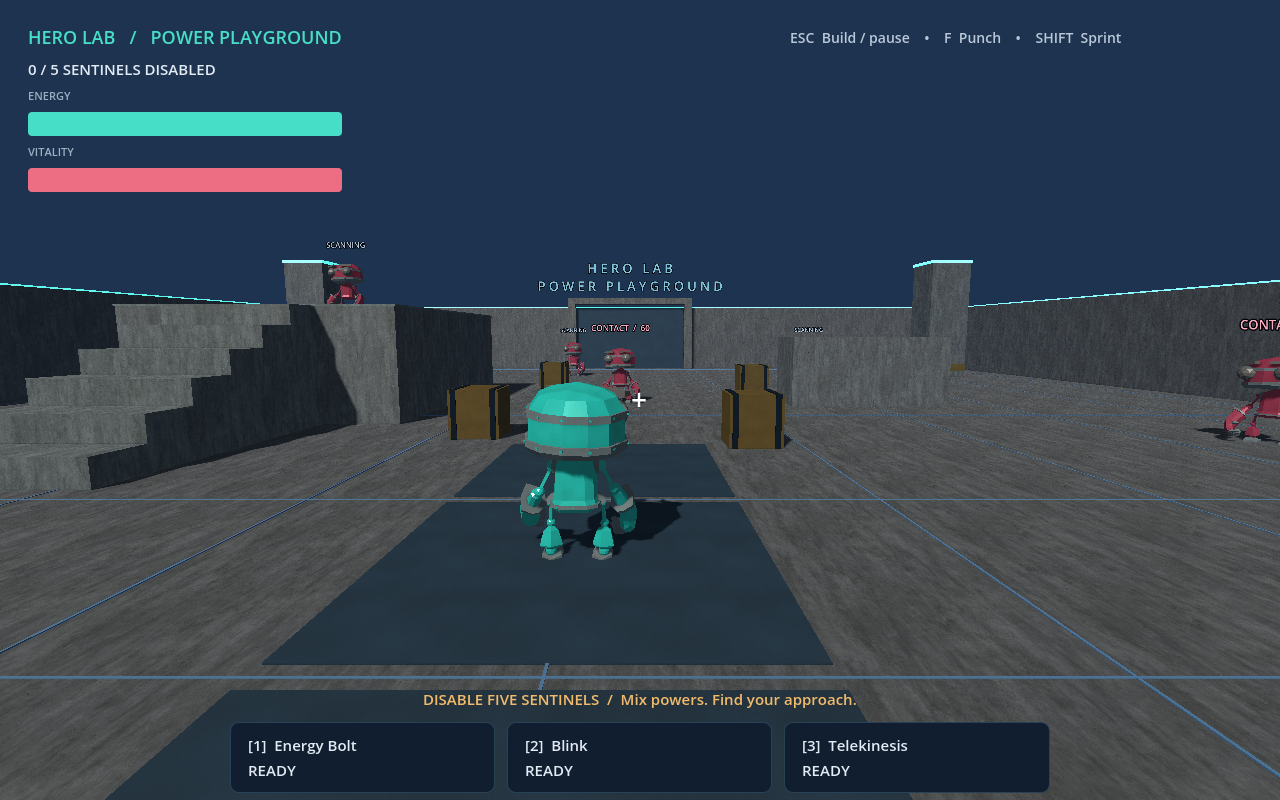
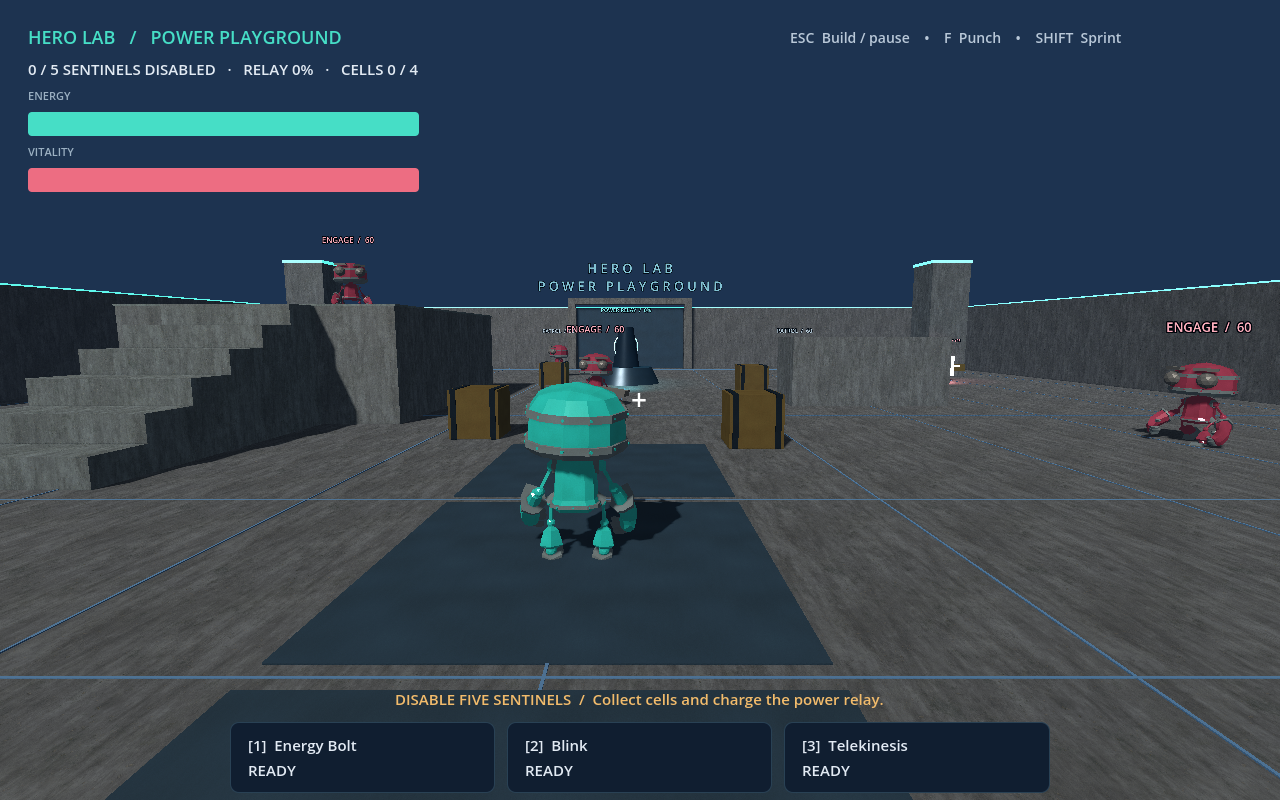
feat: add seeker missile power

diff --git a/README.md b/README.md
@@ -14,18 +14,19 @@ godot --path client
 
 You can also open `client/project.godot` in Godot 4 and press F6 with the hero lab scene open, or F5 to run the project.
 
-The game opens with three empty slots. Choose exactly three of the six powers below; Enter becomes available only when all three slots are filled. Cards and the loadout preview show the assigned keys (1, 2, 3) in selection order. Click a selected card to remove it, then choose a replacement. You can also choose a signature color. Enter the playground to disable five sentinels, collect power cells, and charge the central relay; Esc pauses and reopens your build.
+The game opens with three empty slots. Choose exactly three of the seven powers below; Enter becomes available only when all three slots are filled. Cards and the loadout preview show the assigned keys (1, 2, 3) in selection order. Click a selected card to remove it, then choose a replacement. You can also choose a signature color. Enter the playground to disable five sentinels, collect power cells, and charge the central relay; Esc pauses and reopens your build.
 
 | Power | What it does |
 | --- | --- |
 | Energy Bolt | Cast a traveling orb that damages targets and pushes crates. |
+| Seeker Missiles | Fire a staggered three-missile volley that curves toward exposed sentinels. |
 | Blink | Teleport up to eight metres through clear space. |
 | Telekinesis | Lift a crate, then use the power again to throw it. |
 | Cloak | Conceal yourself for five seconds; attacks reveal you. |
 | Shockwave | Damage exposed enemies within six metres and fling crates outward. Solid cover blocks it. |
 | Energy Shield | Block incoming enemy energy for five seconds while continuing to move and attack. |
 
-All twenty distinct three-power combinations are available. For example, Shield + Shockwave + Blink creates a protected close-range build. Removing Shield or Cloak from the build ends its active effect. Arena reset preserves your selected three powers.
+All thirty-five distinct three-power combinations are available. For example, Shield + Shockwave + Blink creates a protected close-range build, while Seeker Missiles + Cloak + Blink supports hit-and-reposition play. Removing Shield or Cloak from the build ends its active effect. Arena reset preserves your selected three powers.
 
 | Control | Action |
 | --- | --- |
@@ -37,6 +38,8 @@ All twenty distinct three-power combinations are available. For example, Shield 
 | Esc | Open hero creation and pause |
 
 Energy regenerates. Telekinesis grabs amber crates; pressing its key again throws the held crate. Two energy orbs, two melee punches, or one thrown crate disable a sentinel. Cloak lasts five seconds and breaks when attacking. Sentinels patrol while unaware, investigate sounds from powers and thrown crates, alert nearby allies when hit, then pursue and strafe at combat range when they see the hero. A hit causes a visible stagger; a lethal hit leaves a short shutdown pose before the sentinel clears. Their projectiles travel through space and can be dodged; already-fired attacks can still hit a cloaked hero.
+
+Seeker Missiles cost 40 energy and launch three small homing projectiles 130 ms apart. Each tracks its initially acquired, exposed sentinel with a bounded turn rate; cover or a destroyed target breaks its lock, then it continues forward and can be avoided.
 
 Four cells are placed in the arena: jade cells restore 30 energy and coral cells restore 25 vitality. The central Power Relay takes charge from Energy Bolts (25%), Shockwaves (30%), melee strikes (12%), and thrown crates (45%). Bringing it to 100% restores all energy and adds 30 vitality. The HUD and the 3D relay label show objective progress. Reset restores enemies, pickups, relay charge, health, and resources.
 
@@ -60,7 +63,7 @@ godot --path client --script res://tests/capture.gd
 godot --path client --fixed-fps 60 --script res://tests/capture_actions.gd
 ```
 
-The automated suite checks loadouts, energy and cooldowns, cloak behavior, traveling projectile damage, physical thrown-crate impact, Blink collision and ground travel, reset, defeat, movement and animation selection, jumping, melee timing, pause including in-flight attacks, reactive sentinel behavior, shot telegraphing, pickups, and relay charging/rewards. The dedicated power suite also checks all twenty builds, empty/incomplete selection rejection, Shockwave range and cover, Shield expiry and damage blocking, and cleanup when changing powers. The capture command opens a temporary rendered window, saves images to `docs/qa/`, and exits.
+The automated suite checks loadouts, energy and cooldowns, cloak behavior, traveling projectile damage, physical thrown-crate impact, Blink collision and ground travel, reset, defeat, movement and animation selection, jumping, melee timing, pause including in-flight attacks, reactive sentinel behavior, shot telegraphing, pickups, and relay charging/rewards. The dedicated power suite also checks all thirty-five builds, empty/incomplete selection rejection, Seeker Missile acquisition and homing impact, Shockwave range and cover, Shield expiry and damage blocking, and cleanup when changing powers. The capture command opens a temporary rendered window, saves images to `docs/qa/`, and exits.
 
 Read [the concept and prototype scope](docs/CONCEPT.md) for the proposed direction, milestones, and research references. Decisions in that document are proposals unless explicitly marked as confirmed.
 

diff --git a/docs/CONCEPT.md b/docs/CONCEPT.md
@@ -8,9 +8,9 @@ The owner subsequently selected **creating a hero and combining powers** as the 
 
 ## Implemented starting point
 
-The `client/` Godot project now contains an early Hero Lab prototype: signature color selection, three freely selected power slots from four abilities, third-person movement, a small arena, physics crates, and five stationary sentinels. It includes resource limits, cloak detection changes, obstacle-aware Blink, damage, defeat, reset, and a pause/build menu. See the README for controls and limitations.
+The `client/` Godot project now contains an early Hero Lab prototype: signature color selection, three freely selected power slots from seven abilities, third-person movement, a small arena, physics crates, reactive sentinels, pickups, and a relay objective. It includes resource limits, cloak detection changes, obstacle-aware Blink, damage, defeat, reset, and a pause/build menu. See the README for controls and limitations.
 
-Prototype 03 adds Shockwave and Energy Shield. The opening screen starts with three empty slots and requires the player to choose exactly three of six freely combinable powers before entering.
+Prototype 04 adds Seeker Missiles. The opening screen starts with three empty slots and requires the player to choose exactly three of seven freely combinable powers before entering.
 
 The mission and expansion sections below remain future proposals. Prototype 02 replaces the capsule with a rigged Quaternius robot, adds imported movement and punch clips, physical energy projectiles, melee combat, ambientCG PBR surfaces, and layered 3D effects. The arena still has a target-disabling objective rather than core retrieval and extraction.
 
@@ -40,6 +40,7 @@ Equip three abilities freely from a small pool; presets are convenient starting 
 | Telekinesis | Grab and throw designated physics props | Move cover, distract guards, and attack |
 | Energy bolt | Aimed projectile with visible impact | Direct ranged combat |
 | Cloak | Temporary concealment that breaks on attack | Bypass patrols and reposition |
+| Seeker Missiles | Staggered three-projectile homing volley | Pursue exposed targets from a safe angle |
 
 Each power needs readable targeting, a clear limit, and immediate feedback. Test combinations such as blinking onto a roof and throwing a crate into the courtyard. Keep the initial appearance editor to a few color choices; detailed body and clothing customization follows the gameplay prototype.
 

diff --git a/docs/WORK_LOG.md b/docs/WORK_LOG.md
@@ -74,3 +74,10 @@
 - Limited the encounter to three concurrent hostile projectiles and sampled sentinel line-of-sight at 120 ms intervals, preserving reactive behavior while avoiding repeated physics queries each frame.
 - Added a brief cast flash to Energy Bolt, slowed the shared punch clip, and gave sentinel fire a 220 ms animation wind-up. The visual action now precedes the damaging projectile instead of occurring simultaneously.
 - Verification: clean Godot editor import; **70 integration checks and 43 dedicated power/selection checks passed** headlessly. Fixed-FPS Metal captures were regenerated and the Energy Bolt and melee frames were visually reviewed.
+
+## 2026-09-13 11:00 CDT — Seeker Missiles
+
+- Added Seeker Missiles as the seventh selectable power. It spends 40 energy to launch three lightweight gold missiles in a staggered volley toward visible sentinels.
+- Each missile uses bounded steering, verifies line of sight every 120 ms, and drops to a harmless ballistic path if cover appears or its acquired target is removed. The implementation reuses the bounded projectile/effect system from the performance pass.
+- Updated the build UI, catalog, concept, README, automated combination coverage, and rendered capture plan for seven powers and 35 possible three-power builds.
+- Verification: clean Godot editor import; **70 integration checks and 62 dedicated power/selection checks passed** headlessly. Both renderer capture scripts completed on Metal, including the seven-power builder and Seeker Volley action frame.
